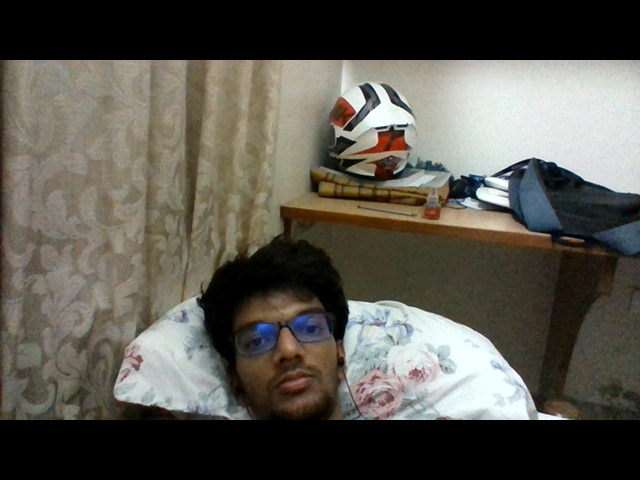
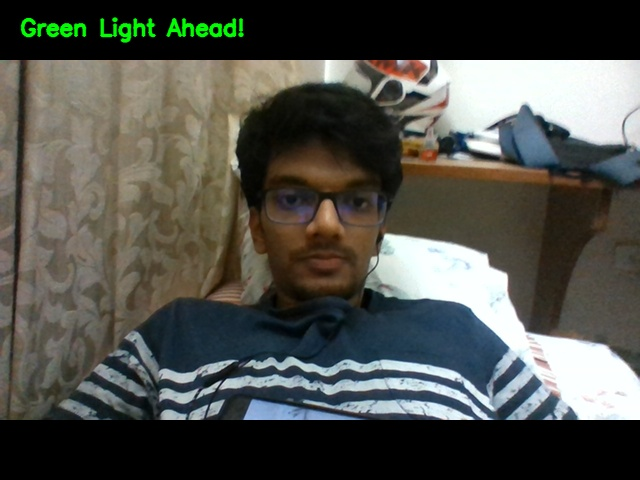
New changes

diff --git a/test.py b/test.py
@@ -1,0 +1,90 @@
+import numpy as np
+import cv2
+from playsound import playsound 
+
+ESC=27
+
+camera = cv2.VideoCapture(0)
+orb = cv2.ORB_create(nfeatures=1500)
+bf = cv2.BFMatcher(cv2.NORM_HAMMING, crossCheck=True)
+
+def myFunction():
+    # camera = cv2.VideoCapture(0)
+    # orb = cv2.ORB_create(nfeatures=1500)
+    # bf = cv2.BFMatcher(cv2.NORM_HAMMING, crossCheck=True)
+    rTrainColor=cv2.imread('redlight.jpg') 
+    rTrainGray = cv2.cvtColor(rTrainColor, cv2.COLOR_BGR2GRAY)
+
+    gTrainColor=cv2.imread('greenlight.jpg') 
+    gTrainGray = cv2.cvtColor(gTrainColor, cv2.COLOR_BGR2GRAY)
+
+    rkpTrain = orb.detect(rTrainGray,None)
+    rkpTrain, rdesTrain = orb.compute(rTrainGray, rkpTrain)
+
+    gkpTrain = orb.detect(gTrainGray,None)
+    gkpTrain, gdesTrain = orb.compute(gTrainGray, gkpTrain)
+
+    firsttime=True
+    rdetected = False
+    gdetected = False
+
+    while True:
+
+   
+        ret, imgCamColor = camera.read()
+        imgCamGray = cv2.cvtColor(imgCamColor, cv2.COLOR_BGR2GRAY)
+        kpCam = orb.detect(imgCamGray,None)
+        kpCam, desCam = orb.compute(imgCamGray, kpCam)
+
+        rmatches = bf.match(desCam,rdesTrain)
+        rdist = [rm.distance for rm in rmatches]
+        rthres_dist = (sum(rdist) / len(rdist)) * 0.5
+        rmatches = [rm for rm in rmatches if rm.distance < rthres_dist]
+
+        gmatches = bf.match(desCam,gdesTrain)
+        gdist = [gm.distance for gm in gmatches]
+        gthres_dist = (sum(gdist) / len(gdist)) * 0.5
+        gmatches = [gm for gm in gmatches if gm.distance < gthres_dist]
+
+        if len(rmatches)>4 or len(gmatches)>4:
+            if len(rmatches)>len(gmatches) and rdetected == False:
+                print("Red light ahead")
+                rdetected = True
+                gdetected = False
+                f = open("status.txt", "w")
+                f.write("Red light ahead")
+                f.close()
+                #playsound("redlight.mp3")
+                #cv2.imshow('match',rTrainColor)
+                
+            elif len(rmatches)<len(gmatches) and gdetected == False:
+                print("Green light ahead")
+                rdetected = False
+                gdetected = True
+                f = open("status.txt", "w")
+                f.write("Green light ahead")
+                f.close()
+                #playsound("greenlight.mp3")
+                #cv2.imshow('match',gTrainColor)
+
+        if(rdetected == True):
+            cv2.putText(imgCamColor, "Red Light Ahead!" , (20, 35), cv2.FONT_HERSHEY_SIMPLEX, 0.75, (0, 0, 255), 2, cv2.LINE_AA)
+        elif(gdetected == True):
+            cv2.putText(imgCamColor, "Green Light Ahead!" , (20, 35), cv2.FONT_HERSHEY_SIMPLEX, 0.75, (0, 255, 0), 2, cv2.LINE_AA)
+                
+        cv2.imshow('Traffic Signal Detection', imgCamColor)
+        cv2.imwrite("camera.jpg",imgCamColor)
+        
+        ch = 0xFF & cv2.waitKey(1)
+        if ch == 27:
+           break
+        
+myFunction()
+camera.release()
+cv2.destroyAllWindows()
+
+
+
+
+    
+    

diff --git a/main3.py b/main3.py
@@ -1,5 +1,7 @@
 #kivy-latest
 #kivymd- 0.103.0
+import os
+os.environ["KIVY_NO_CONSOLELOG"] = "1"
 
 import traceback
 
@@ -63,9 +65,10 @@ class HomeScreen(Screen):
         self.greenFlag = False
 
     def build(self):
-        self.capture = cv2.VideoCapture(0)
+        #self.capture = cv2.VideoCapture(0)
         #cv2.namedWindow("CV2 Image",cv2.WINDOW_NORMAL)
         #cv2.resizeWindow("CV2 Image", 380,200)
+        Clock.max_iteration = 20
         Clock.schedule_interval(self.update, 1.0/33.0)
 
     def update(self, dt):
@@ -95,8 +98,8 @@ class HomeScreen(Screen):
         self.ids.stat.text = self.status
         
         # display image from cam in opencv window
-        ret, frame = self.capture.read()
-        cv2.imwrite("camera.jpg",frame)
+        #ret, frame = self.capture.read()
+        #v2.imwrite("camera.jpg",frame)
 
     def speechRec(self):
         r = sr.Recognizer()
